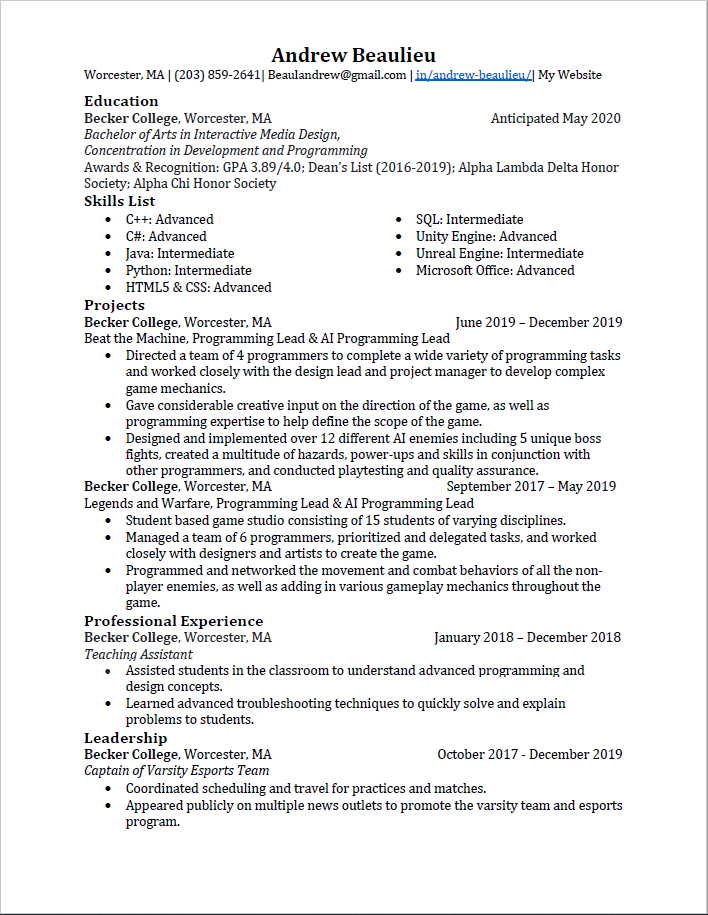
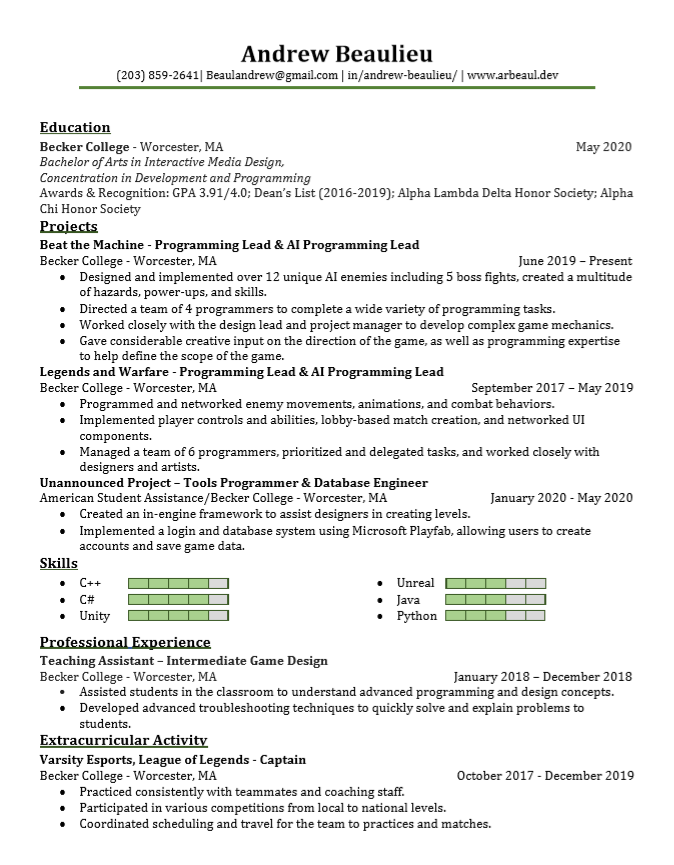
resume

Changed region(s): [[0.0623, 0.0312, 0.9347, 0.9676], [0.0, 0.0, 1.0, 1.0]]

diff --git a/index.html b/index.html
@@ -50,7 +50,7 @@
 		  	  	<div class = "projectIcon"><img src="Images/BTM Icon.png" style="width:100%;height:100%" alt=""/></div>
 				<div class = "projectText">
 					<div class = "projectTextTitle">Programming Lead/AI Programmer</div>
-					<div class = "projectTextBody">Beat The Machine is a 3D top-down retro arcade twin-stick shooter where the player takes on the role of an anti-virus inside of a computer fighting off hordes of invaders. Created over the course of one year I worked as the Programming Lead and AI Programmer. As the Programming Lead I co-ordinated a team of four programmers, as well as provided creative and technical input on the direction of the game. As the AI Programmer I created the enemy AI for the project as well as a multitude of hazards, power-ups, and skills.</div>
+					<div class = "projectTextBody">Beat The Machine is a 3D top-down retro arcade twin-stick shooter where the player takes on the role of an anti-virus inside of a computer fighting off hordes of invaders. Created over the course of one year I worked as the Programming Lead and AI Programmer. As the Programming Lead I coordinated a team of four programmers, as well as provided creative and technical input on the direction of the game. As the AI Programmer I created the enemy AI for the project as well as a multitude of hazards, power-ups, and skills.</div>
 					<div class = "projectTextLink"><a href="BeatTheMachine.html">Project Page</a></div>
 					<div class = "projectStoreLink"><a href="BeatTheMachine.html">Steam Page(Coming Soon)</a></div>
 				</div>

diff --git a/Resume.html b/Resume.html
@@ -30,9 +30,9 @@
 		<div class="resumeSection">
 			<div class="resumeTitle">Resume</div>
 			<div class="resumeDownloadPDF"><a href="Downloads/ARBeaulieu_Resume.pdf" download>Download as PDF</a></div>
-			<div class="resumeDownloadDOC"><a href="Downloads/ARBeaulieu_Resume.docx" download>Download as Word Doc</a></div>
+			<div class="resumeDownloadDOC"><a href="Downloads/ARBeaulieu_Resume.docx" download>Download as .docx</a></div>
 			<div class="resumeImage">
-				<img src="Images/ARBeaulieuResumeCapture.PNG" style = "width:100%;height:100%" alt=""/>
+				<img src="Images/Resume.PNG" style = "width:100%;height:100%" alt=""/>
 			</div>
 		</div>
 	  
